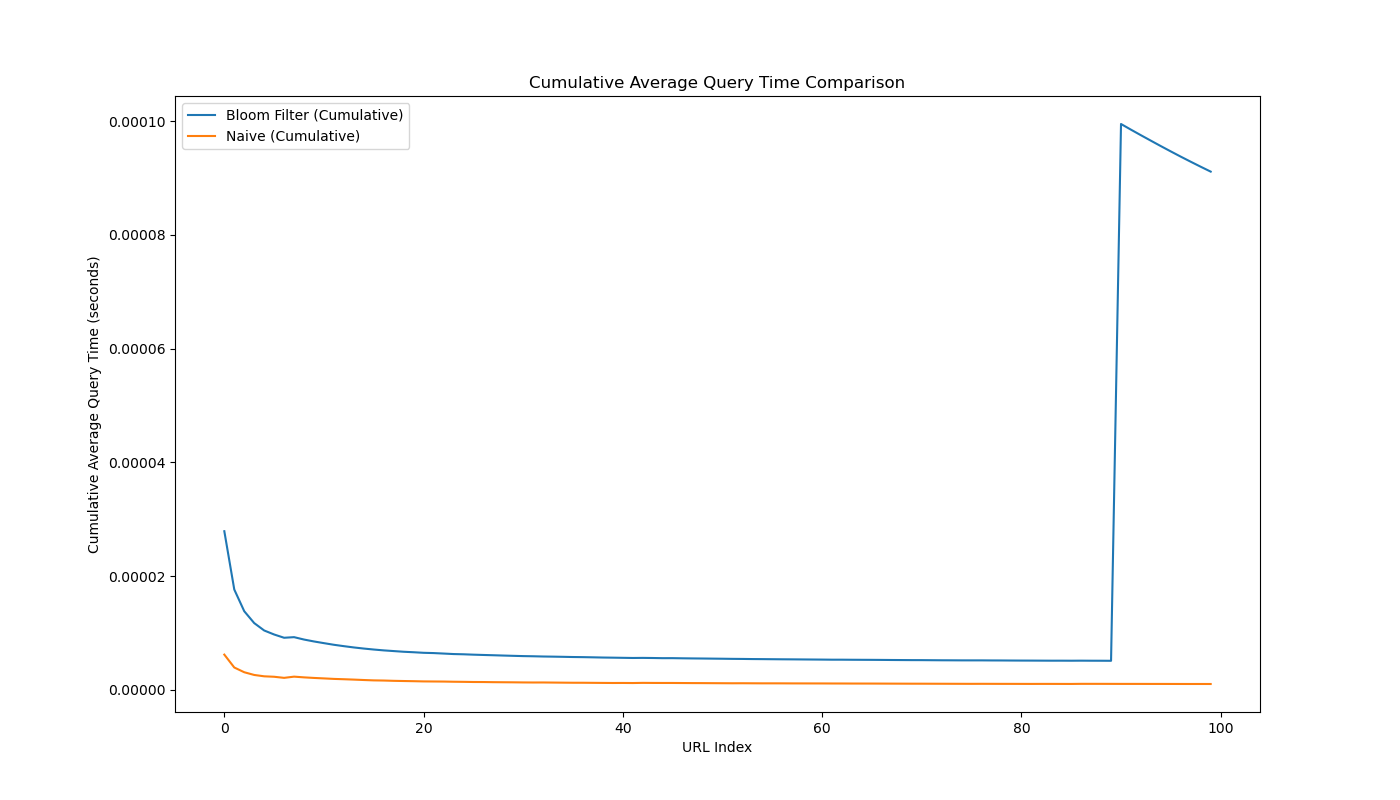
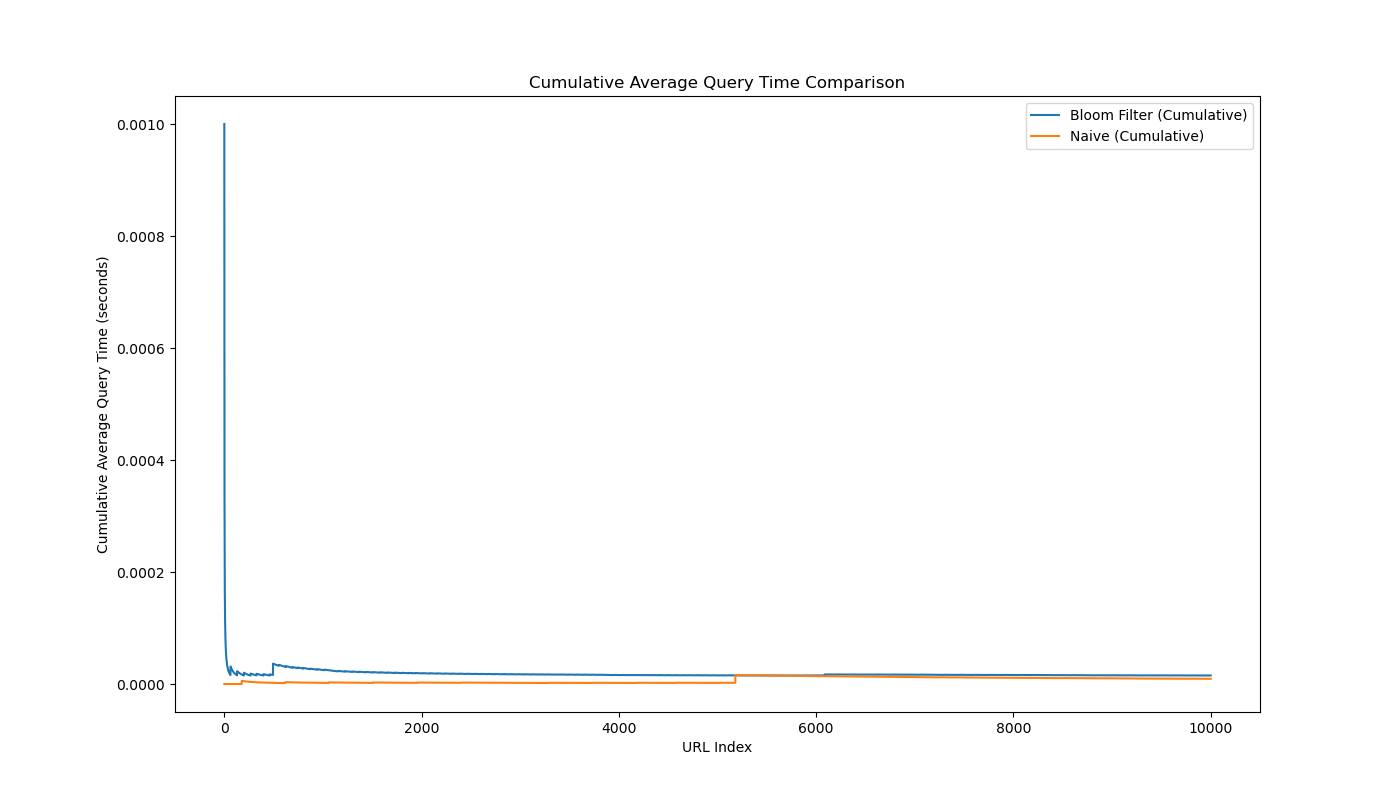
made changes

diff --git a/performance_tests.py b/performance_tests.py
@@ -3,19 +3,80 @@ import matplotlib.pyplot as plt
 import pandas as pd
 import random
 import time
-
+import sys
+import math 
 class PerformanceTester:
     def __init__(self):
-        self.bloom_url_shortener = BloomURLShortener()
+        
         self.naive_shortener = NaiveURLShortener()
         data = pd.read_csv('user-ct-test-collection-01.txt', sep="\t")
         self.urllist = list(data.ClickURL.dropna().unique())
-        self.urlstoinsert = random.sample(self.urllist, 10000)
-        self.false_negative_list = self.urlstoinsert[:len(self.urlstoinsert) // 2]
-        self.false_positive_list = self.urlstoinsert[len(self.urlstoinsert) // 2:]
+        self.bloom_url_shortener = BloomURLShortener(n=len(self.urllist))
+        ninety_split = math.floor(len(self.urllist) * 0.9)
+        self.urlstoinsert = self.urllist[:ninety_split]
+        
+        self.urlstotest = self.urllist[ninety_split:]
+        self.false_negative_list = self.urlstotest[:len(self.urlstotest) // 2]
+        self.false_positive_list = self.urlstotest[len(self.urlstotest) // 2:]
     
     def get_sample(self, sample_size):
         return random.choices(self.false_negative_list, k=sample_size)
+    '''
+    Initializing our shorteners
+    '''
+    def insert(self):
+        bloom_start = time.time()
+        for url in self.urlstoinsert:
+            self.bloom_url_shortener.shorten_url(url)
+        bloom_end = time.time()
+
+        naive_start = time.time()
+        for url in self.urlstoinsert:
+            self.naive_shortener.shorten_url(url)
+        naive_end = time.time()
+
+        bloom_total = bloom_end-bloom_start
+        naive_total = naive_end-naive_start
+        print("Insertion times")
+        print("Bloom took :", bloom_total)
+        print("Naive took :", naive_total)
+    '''
+    Want to assert that bloom filter takes less space
+    '''
+    def test_size(self):
+        print("Bloom size in memory:", sys.getsizeof(self.bloom_url_shortener.bloom_filter))
+        print("Naive size in memory:", sys.getsizeof(self.naive_shortener.seen_urls))
+    
+    def test_query(self):
+        # stuff we know is in the set
+        samples = random.choices(self.urlstoinsert, k=1000)
+        start_bloom = time.time()
+        for sample in samples:
+            assert(self.bloom_url_shortener.bloom_filter.test(sample))
+        end_bloom = time.time()
+
+        start_naive = time.time()
+        for sample in samples:
+            assert(sample in self.naive_shortener.urls.values())
+        end_naive = time.time()
+        naive_time = end_naive-start_naive
+        bloom_time = end_bloom-start_bloom
+        print("Naive took: ", naive_time)
+        print("Bloom took: ", bloom_time)
+        speedup = naive_time/bloom_time
+        print("Bloom was " + str(speedup) + " times faster")
+    
+    def test_fp(self):
+        fp = 0
+        print("Length of test set", len(self.urlstotest))
+        for false in self.urlstotest:
+            if self.bloom_url_shortener.bloom_filter.test(false) == True:
+                fp += 1
+        fp_obs = fp / len(self.urlstotest)
+
+        print("Observed fp rate = ", fp_obs)
+        print("Num fp = ", fp)
+
 
     '''
     Want to test performance of shortening a very large number of urls:
@@ -118,7 +179,7 @@ class PerformanceTester:
         plt.clf()
 
     def run_test(self):
-        sample = self.get_sample(100)
+        sample = self.get_sample(10000)
         # bloom_start = time.time()
         bloom_query_times, original_bloom_pairs = self.test_bloom_filter(sample)
         # bloom_end = time.time()
@@ -145,5 +206,9 @@ class PerformanceTester:
 
 if __name__ == '__main__':
     tester = PerformanceTester()
-    tester.run_test()
+    # tester.run_test()
+    tester.insert()
+    tester.test_size()
+    tester.test_query()
+    tester.test_fp()
     

diff --git a/url_shortener.py b/url_shortener.py
@@ -22,9 +22,9 @@ class NaiveURLShortener:
         return self.urls.get(short_url, None)
 
 class BloomURLShortener:
-    def __init__(self):
+    def __init__(self, n=1000000, fp=0.001):
         self.urls = {}  # Dictionary to store short URL -> long URL mapping
-        self.bloom_filter = BloomFilter(1000000, 0.001)  # Bloom filter to check if a URL is already stored
+        self.bloom_filter = BloomFilter(n=n, fp_rate=fp)  # Bloom filter to check if a URL is already stored
 
     def shorten_url(self, long_url):
         # Check if the URL is already stored
